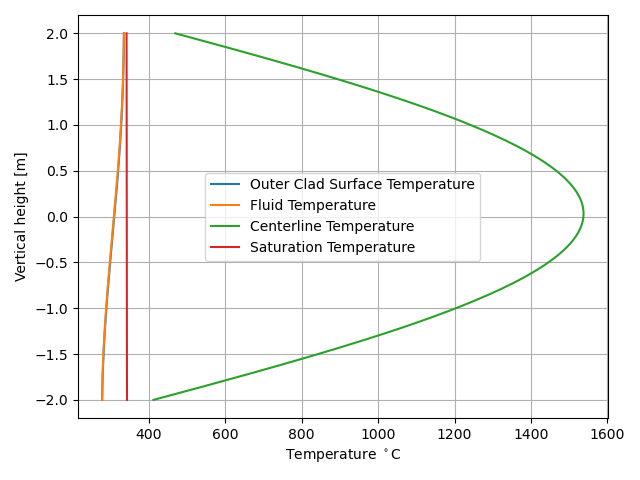
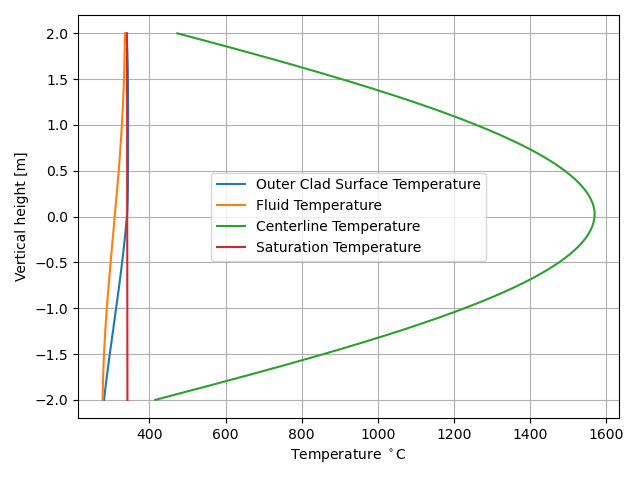
its working

diff --git a/hw8 PWR.py b/hw8 PWR.py
@@ -160,6 +160,9 @@ def calcNewTemp(Xe, pressure):
 def dittusBoelter(k, re, pr):
     return 0.023 * re**(0.8) * pr**0.4 * (k/D_equiv)
 
+def liuWinterton(S, F, htc, hnb, tf, tsat, tw):
+    temporary = (F*htc*(tw-tf))**2 + (S*hnb*(tw-tsat))**2
+    return np.sqrt(temporary)
 #############################
 ###############################
 
@@ -280,20 +283,29 @@ if option == 1 :
         
             c_3 = (-qlins[i])/(2*np.pi*k_gap)
             c_5 = k_gap * c_3 / k_clad
-            if T_c_out[i-1] < Tsats[i-1]:
+            if T_c_out[i-1] <= Tsats[i-1]:
                 c_6 = (c_5*((-k_clad/(htcs[i]*r_clad_o)) - np.log(r_clad_o))) + T_f_s[i]
             else:
                 curP = Ps[i]
                 F = (1+(chi*Prs[i]*((presQualProp(curP, 0, "rho")/presQualProp(curP, 100, "rho"))-1)))**0.35
-                S = (1+(0.055*(F**0.1)*(Res[i]**0.16)))**(-1)
+                S = (1+(0.055*(F**0.1)*(Res[0]**0.16)))**(-1)
                 hnb = 55*((curP/critP)**0.12)*(qdoubles[i]**(2/3))*((-1*np.log10(curP/critP))**-0.55)*(MM_water**-0.5)
-                A1 = (S**2) * (htcs[i]**2)
-                A2 = (F**2) * (hnb**2)
+                '''tw = Tsats[i]
+                #print(S, F, hnb, tw, T_f_s[i], Tsats[i], liuWinterton(S, F, htcs[i], hnb, T_f_s[i], Tsats[i], tw))
+                
+                while (qdoubles[i] - liuWinterton(S, F, htcs[i], hnb, T_f_s[i], Tsats[i], tw) >=0.0001):
+                    tw = tw*1.001'''
+
+                A1 = (F**2) * (htcs[i]**2)
+                A2 = (S**2) * (hnb**2) #If F and S are flipped there is a discontinuity in the graph
                 L1 = A1+A2
                 L2 = -2*(A1*T_f_s[i] + A2*Tsats[i])
                 L3 = A1*(T_f_s[i]**2) + A2*(Tsats[i]**2) - ((k_clad*c_5/r_clad_o)**2)
-                T_w = ((-L2 +((L2**2 - (4*L1*L3))**0.5))/(2*L1))
-                c_6 = T_w - (c_5*np.log(r_clad_o))
+                #print(f"F = {F}, S = {S:0.2f}, hnb={hnb:0.2f}, A1 = {A1:0.2f}, A2 = {A2:0.2f}, L1 = {L1:0.2f}, L2 = {L2:0.2f}, L3 = {L3:0.2f}")
+                T_w_min = ((-L2-((L2**2 - (4*L1*L3))**0.5))/(2*L1))
+                T_w_plus = ((-L2 +((L2**2 - (4*L1*L3))**0.5))/(2*L1))
+                #print("Wall temp", T_w_plus)
+                c_6 = T_w_plus - (c_5*np.log(r_clad_o))
 
 
 
@@ -304,15 +316,17 @@ if option == 1 :
             T_f_c.append(c_2)
             T_c_in.append(c_3*np.log(r_clad_i) + c_4)
             T_c_out.append(c_5*np.log(r_clad_o) + c_6)
+            #print(c_5*np.log(r_clad_o) + c_6, qdoubles[i])
+
 
             
         #ax.plot(qlins, zs,  label="q\'")
         #ax.plot(np.array(Ps)/(10**6), zs, label="Fluid Pressure")
 
-        # ax.plot(T_c_out, zs, label="Outer Clad Surface Temperature")
-        # ax.plot(T_f_s, zs, label="Fluid Temperature")
-        # ax.plot(T_f_c, zs, label="Centerline Temperature")        
-        # ax.plot(Tsats, zs, label="Saturation Temperature")
+        #ax.plot(T_c_out, zs, label="Outer Clad Surface Temperature")
+        #ax.plot(T_f_s, zs, label="Fluid Temperature")
+        ax.plot(T_f_c, zs, label="Centerline Temperature")        
+        #ax.plot(Tsats, zs, label="Saturation Temperature")
         # ax.plot(T_c_in, zs, label="Inner Clad Surface Temperature")
 
         # ax.plot(Xes, zs, label=f"Equilibrium Quality")
